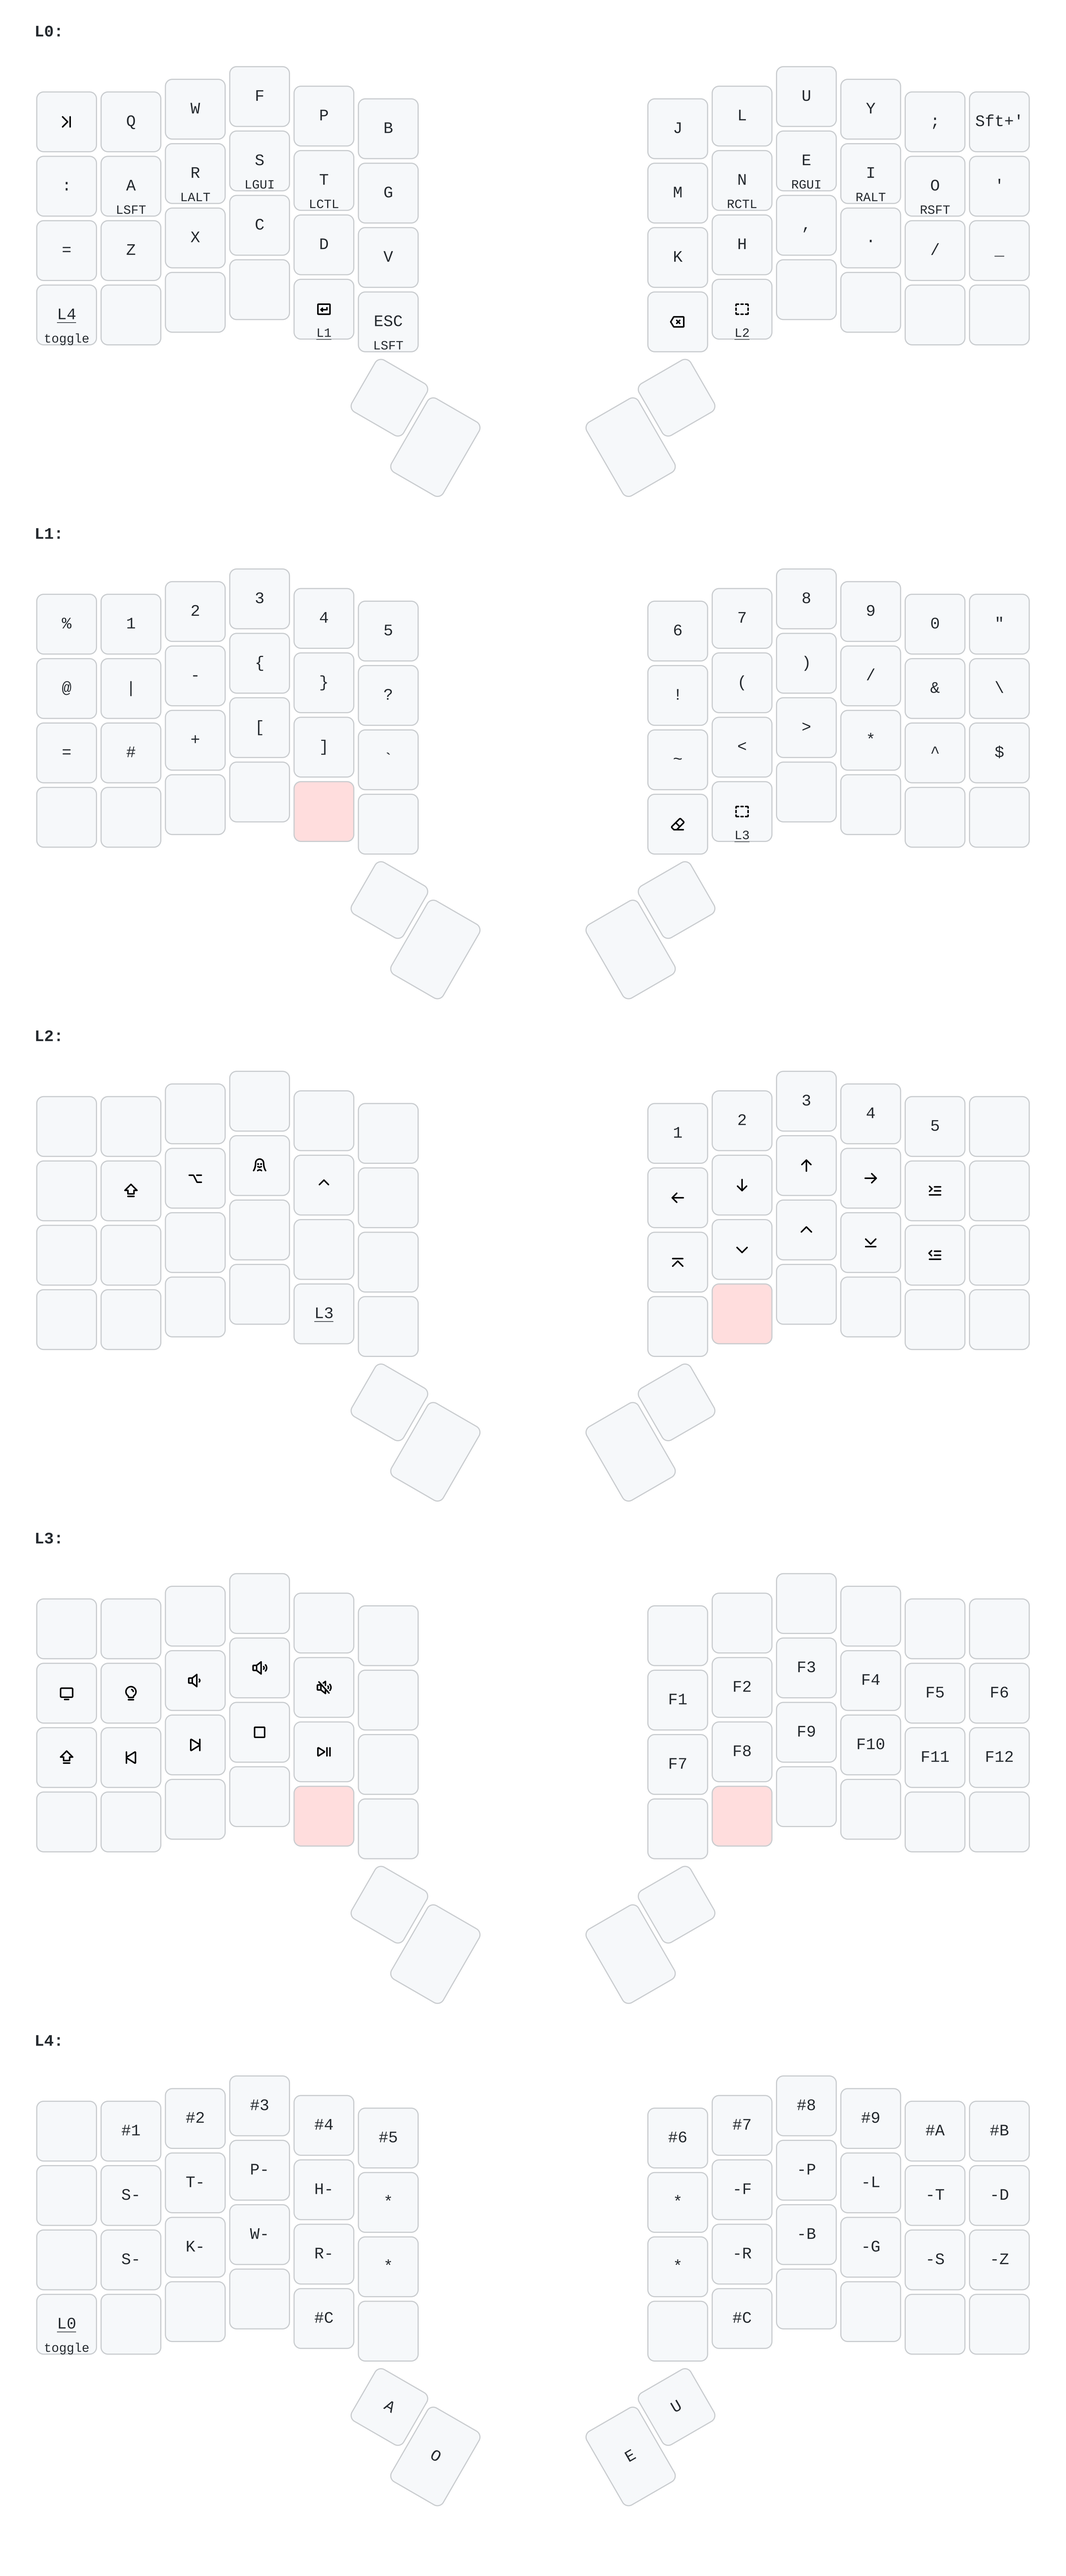
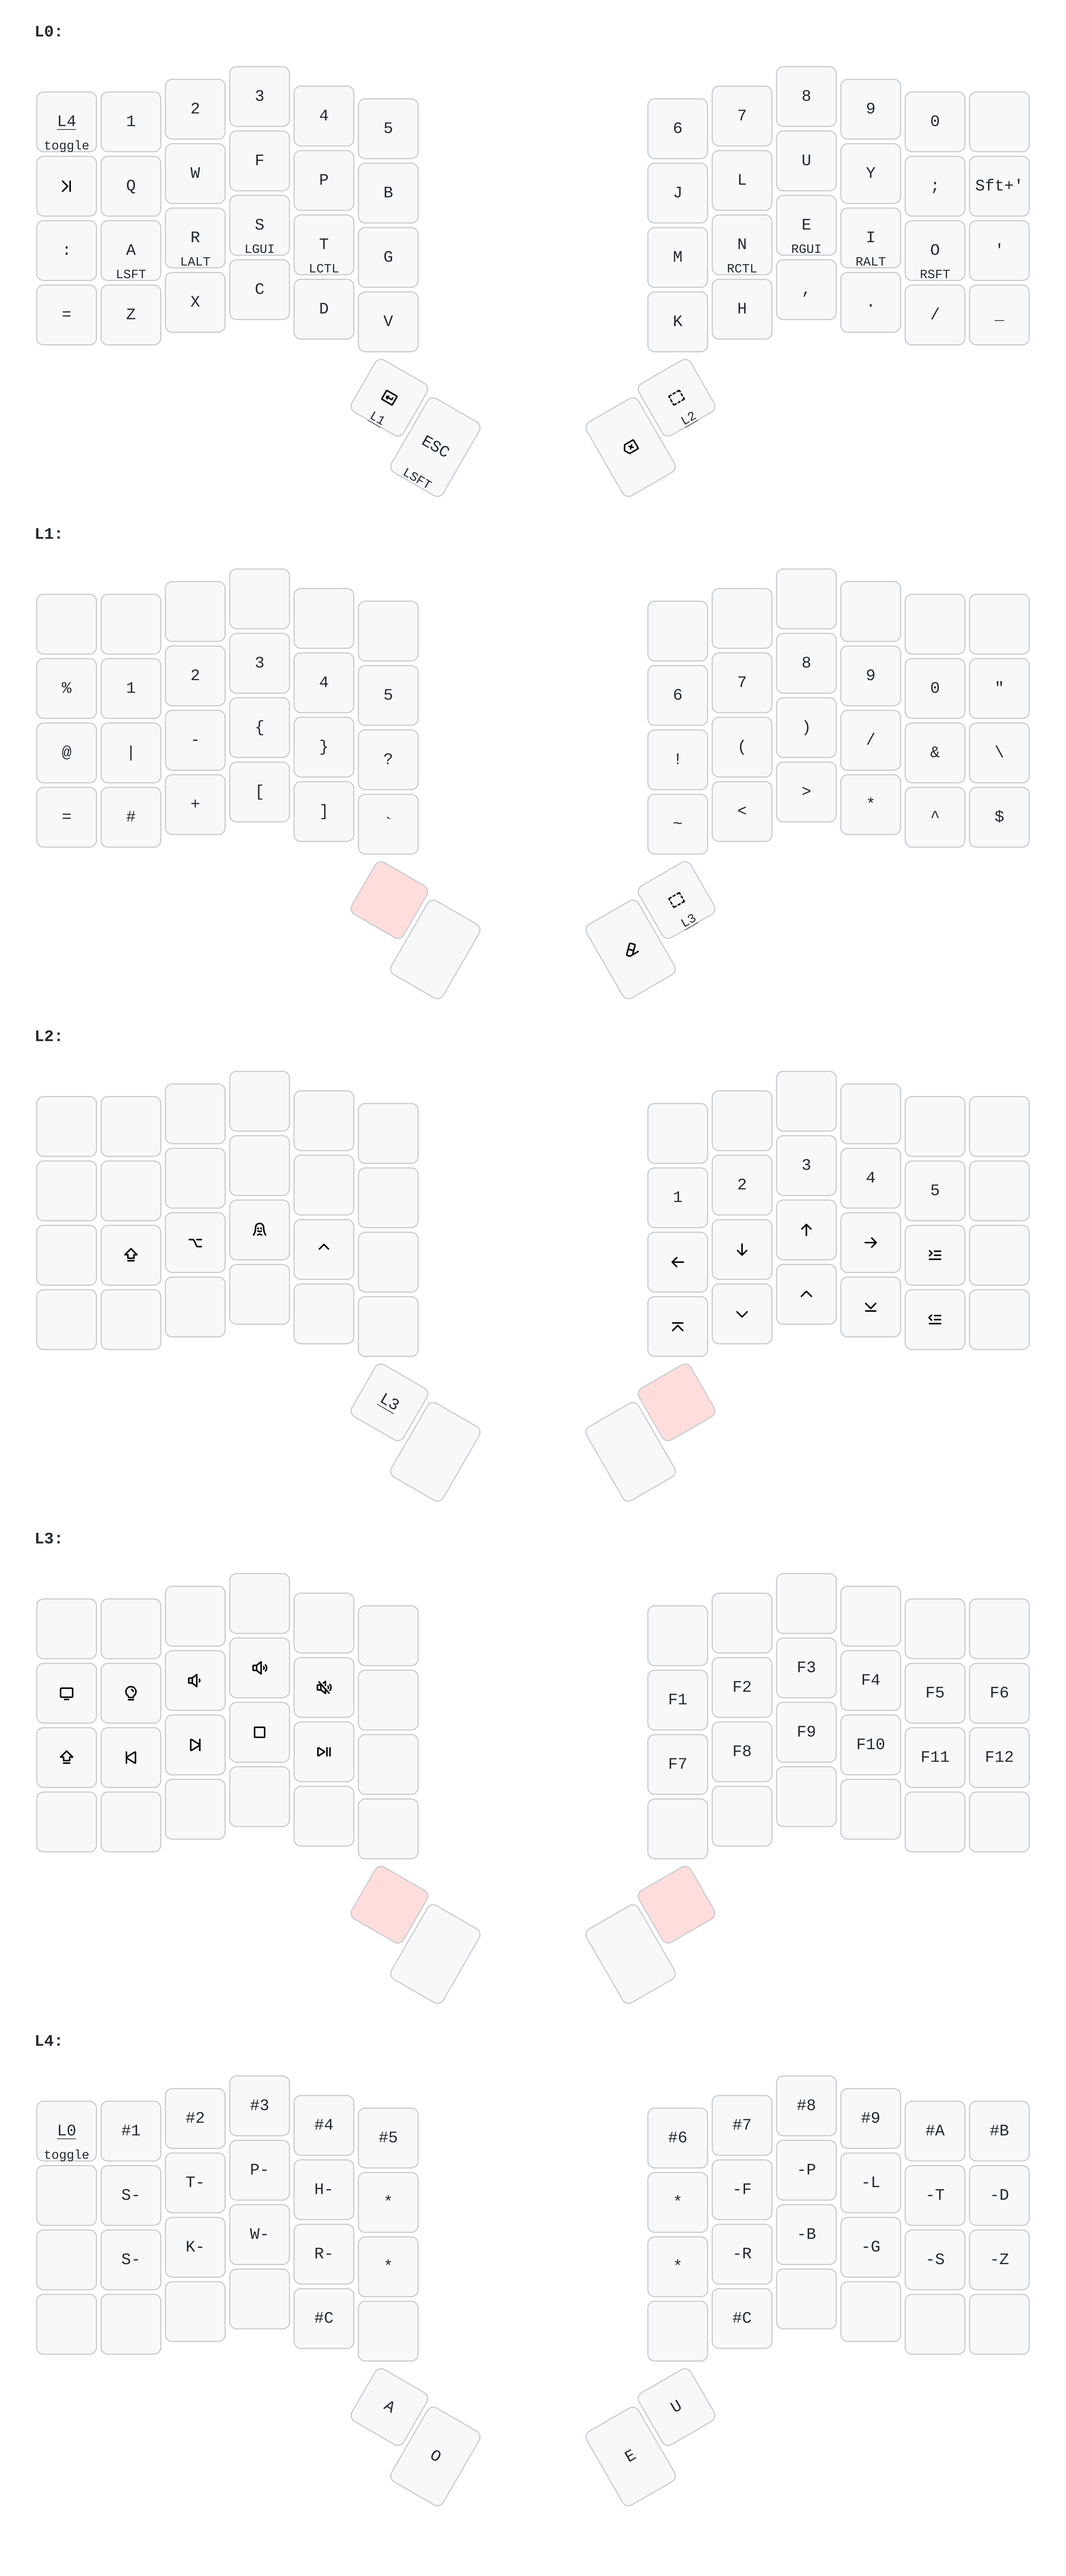
revert: move up keys

diff --git a/keyboards/zsa/voyager/keymaps/mine/keymap.c b/keyboards/zsa/voyager/keymaps/mine/keymap.c
@@ -8,27 +8,27 @@
 // clang-format off
 const uint16_t PROGMEM keymaps[][MATRIX_ROWS][MATRIX_COLS] = {
 [MAIN] = LAYOUT(
+      TO(4)   , KC_1         , KC_2         , KC_3         , KC_4          , KC_5           ,     KC_6    , KC_7          , KC_8         , KC_9         , KC_0         , __        ,
       KC_TAB  , KC_Q         , KC_W         , KC_F         , KC_P          , KC_B           ,     KC_J    , KC_L          , KC_U         , KC_Y         , KC_SEMICOLON , S(KC_QUOT),
       KC_COLN , LSFT_T(KC_A) , LALT_T(KC_R) , LGUI_T(KC_S) , LCTL_T(KC_T)  , KC_G           ,     KC_M    , RCTL_T(KC_N)  , RGUI_T(KC_E) , RALT_T(KC_I) , RSFT_T(KC_O) , KC_QUOT   ,
       KC_EQL  , KC_Z         , KC_X         , KC_C         , KC_D          , KC_V           ,     KC_K    , KC_H          , KC_COMMA     , KC_DOT       , KC_SLSH      , KC_UNDS   ,
-      TO(4)   , __           , __           , __           , LT(1, KC_ENT) , LSFT_T(KC_ESC) ,     KC_BSPC , LT(2, KC_SPC) , __           , __           , __           , __        ,
-                                                             __            , __             ,     __      , __
+                                                             LT(1, KC_ENT) , LSFT_T(KC_ESC) ,     KC_BSPC , LT(2, KC_SPC)
 ),
 
 [SYMBOLS] = LAYOUT(
+      __      , __      , __      , __      , __      , __      ,     __      , __            , __      , __       , __      , __          ,
       KC_PERC , KC_1    , KC_2    , KC_3    , KC_4    , KC_5    ,     KC_6    , KC_7          , KC_8    , KC_9     , KC_0    , KC_DQUO     ,
       KC_AT   , KC_PIPE , KC_MINS , KC_LCBR , KC_RCBR , KC_QUES ,     KC_EXLM , KC_LPRN       , KC_RPRN , KC_SLASH , KC_AMPR , KC_BACKSLASH,
       KC_EQL  , KC_HASH , KC_PLUS , KC_LBRC , KC_RBRC , KC_GRV  ,     KC_TILD , KC_LABK       , KC_RABK , KC_ASTR  , KC_CIRC , KC_DLR      ,
-      __      , __      , __      , __      , __      , __      ,     KC_DEL  , LT(3, KC_SPC) , __      , __       , __      , __          ,
-                                              __      , __      ,     __      , __
+                                              __      , __      ,     KC_DEL  , LT(3, KC_SPC)
 ),
 
 [NAVIGATION] = LAYOUT(
+      __ , __      , __      , __      , __      , __ ,     __      , __      , __      , __       , __           , __,
       __ , __      , __      , __      , __      , __ ,     KC_1    , KC_2    , KC_3    , KC_4     , KC_5         , __,
       __ , KC_LSFT , KC_LALT , KC_LGUI , KC_LCTL , __ ,     KC_LEFT , KC_DOWN , KC_UP   , KC_RIGHT , C(S(KC_TAB)) , __,
       __ , __      , __      , __      , __      , __ ,     KC_HOME , KC_PGDN , KC_PGUP , KC_END   , C(KC_TAB)    , __,
-      __ , __      , __      , __      , MO(3)   , __ ,     __      , __      , __      , __       , __           , __,
-                                         __      , __ ,     __      , __
+                                         MO(3)   , __ ,     __      , __
 ),
 
 [EXTRA] = LAYOUT(
@@ -40,10 +40,10 @@ const uint16_t PROGMEM keymaps[][MATRIX_ROWS][MATRIX_COLS] = {
 ),
 
 [STENO] = LAYOUT(
-      __    , STN_N1 , STN_N2 , STN_N3 , STN_N4 , STN_N5  ,     STN_N6  , STN_N7 , STN_N8 , STN_N9 , STN_NA , STN_NB,
+      TO(0) , STN_N1 , STN_N2 , STN_N3 , STN_N4 , STN_N5  ,     STN_N6  , STN_N7 , STN_N8 , STN_N9 , STN_NA , STN_NB,
       __    , STN_S1 , STN_TL , STN_PL , STN_HL , STN_ST1 ,     STN_ST3 , STN_FR , STN_PR , STN_LR , STN_TR , STN_DR,
       __    , STN_S2 , STN_KL , STN_WL , STN_RL , STN_ST2 ,     STN_ST4 , STN_RR , STN_BR , STN_GR , STN_SR , STN_ZR,
-      TO(0) , __     , __     , __     , STN_NC , __      ,     __      , STN_NC , __     , __     , __     , __    ,
+      __    , __     , __     , __     , STN_NC , __      ,     __      , STN_NC , __     , __     , __     , __    ,
                                          STN_A  , STN_O   ,     STN_E   , STN_U
 )
 };

diff --git a/keyboards/zsa/voyager/keymaps/mine/leds.c b/keyboards/zsa/voyager/keymaps/mine/leds.c
@@ -17,25 +17,25 @@ void enable_leds(void) {
 
 LEDMAP_START = {
   [MAIN] = LEDS(
+      MOV, NUM, NUM, NUM, NUM, NUM, NUM, NUM, NUM, NUM, NUM, ___,
       SYM, TXT, TXT, TXT, TXT, TXT, TXT, TXT, TXT, TXT, TXT, SYM,
       SYM, MOD, MOD, MOD, MOD, TXT, TXT, MOD, MOD, MOD, MOD, SYM,
       SYM, TXT, TXT, TXT, TXT, TXT, TXT, TXT, SYM, SYM, SYM, SYM,
-      MOV, ___, ___, ___, MOV, MOD, SYM, MOV, ___, ___, ___, ___,
-                          ___, ___, ___, ___
+                          MOV, MOD, SYM, MOV
   ),
   [SYMBOLS] = LEDS(
+      ___, ___, ___, ___, ___, ___, ___, ___, ___, ___, ___, ___,
       SYM, NUM, NUM, NUM, NUM, NUM, NUM, NUM, NUM, NUM, NUM, SYM,
       SYM, SYM, SYM, SYM, SYM, SYM, SYM, SYM, SYM, SYM, SYM, SYM,
       SYM, SYM, SYM, SYM, SYM, SYM, SYM, SYM, SYM, SYM, SYM, SYM,
-      ___, ___, ___, ___, ___, ___, SYM, MOV, ___, ___, ___, ___,
-                          ___, ___, ___, ___
+                          ___, ___, SYM, MOV
   ),
   [NAVIGATION] = LEDS(
+      ___, ___, ___, ___, ___, ___, ___, ___, ___, ___, ___, ___,
       ___, ___, ___, ___, ___, ___, NUM, NUM, NUM, NUM, NUM, ___,
       ___, MOD, MOD, MOD, MOD, ___, NAV, NAV, NAV, NAV, NAV, ___,
       ___, ___, ___, ___, ___, ___, NAV, NAV, NAV, NAV, NAV, ___,
-      ___, ___, ___, ___, MOV, ___, ___, ___, ___, ___, ___, ___,
-                          ___, ___, ___, ___
+                          MOV, ___, ___, ___
   ),
   [EXTRA] = LEDS(
       ___, ___, ___, ___, ___, ___, ___, ___, ___, ___, ___, ___,
@@ -45,10 +45,10 @@ LEDMAP_START = {
                           ___, ___, ___, ___
   ),
   [STENO] = LEDS(
+      MOV, STN, STN, STN, STN, STN, STN, STN, STN, STN, STN, STN,
       ___, STN, STN, STN, STN, STN, STN, STN, STN, STN, STN, STN,
       ___, STN, STN, STN, STN, STN, STN, STN, STN, STN, STN, STN,
-      ___, STN, STN, STN, STN, STN, STN, STN, STN, STN, STN, STN,
-      MOV, ___, ___, ___, STN, ___, ___, STN, ___, ___, ___, ___,
+      ___, ___, ___, ___, STN, ___, ___, STN, ___, ___, ___, ___,
                           ___, ___, ___, ___
   )
 };
